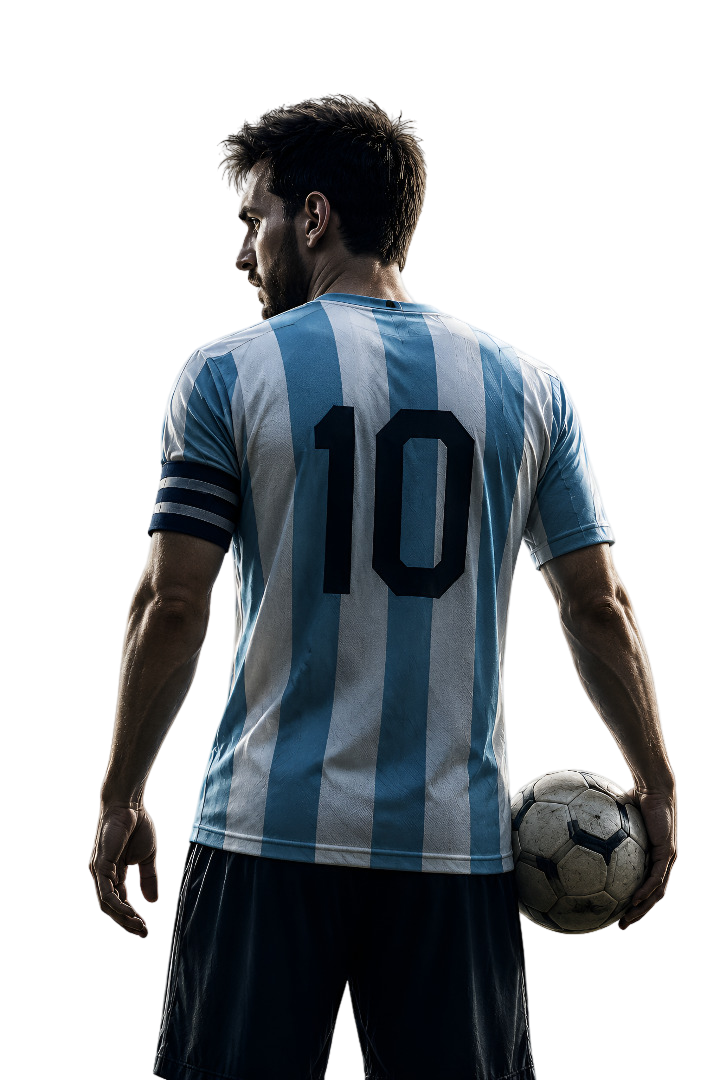
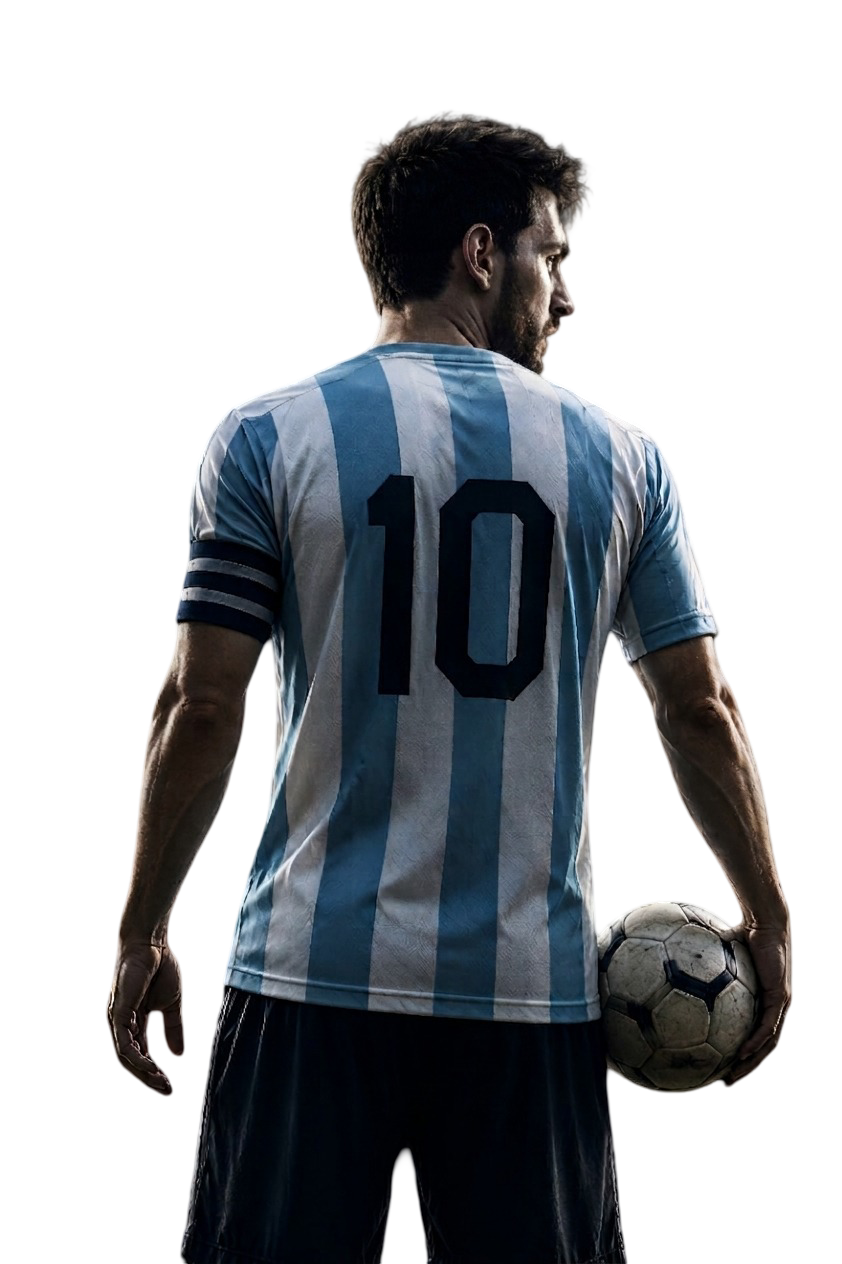
feat: add assets for new nations and update NationCard to dynamically load images per country

diff --git a/src/components/sections/nations/NationCard.tsx b/src/components/sections/nations/NationCard.tsx
@@ -28,8 +28,16 @@ const NATION_COLORS: Record<string, string> = {
   "01": "rgba(0, 191, 255, 0.4)", // Argentina
   "02": "rgba(251, 191, 36, 0.4)", // Brazil
   "03": "rgba(59, 130, 246, 0.4)", // France
-  "04": "rgba(248, 250, 252, 0.2)", // England
+  "04": "rgba(248, 250, 252, 0.2)", // Germany
   "05": "rgba(239, 68, 68, 0.4)",  // Portugal
+}
+
+const NATION_FOLDERS: Record<string, string> = {
+  "01": "argentina",
+  "02": "brazil",
+  "03": "france",
+  "04": "germany",
+  "05": "portugal",
 }
 
 export default function NationCard({ nation, isActive, index }: NationCardProps) {
@@ -75,6 +83,7 @@ export default function NationCard({ nation, isActive, index }: NationCardProps)
   }, [isActive])
 
   const accentColor = NATION_COLORS[nation.id] || "rgba(233, 193, 118, 0.4)"
+  const folder = NATION_FOLDERS[nation.id] || "argentina"
 
   return (
     <div
@@ -84,7 +93,7 @@ export default function NationCard({ nation, isActive, index }: NationCardProps)
       {/* LAYER 1: DEEP BACKGROUND (City/Stadium) */}
       <div ref={bgRef} className="absolute inset-0 z-0">
         <Image
-          src="/images/nations/argentina/bg.png"
+          src={`/images/nations/${folder}/bg.png`}
           alt={`${nation.name} background`}
           fill
           className="object-cover"
@@ -105,7 +114,7 @@ export default function NationCard({ nation, isActive, index }: NationCardProps)
         className="absolute inset-x-0 top-0 h-full w-[120%] -left-[10%] z-1 opacity-40 pointer-events-none mix-blend-overlay"
       >
         <Image
-          src="/images/nations/argentina/flag.png"
+          src={`/images/nations/${folder}/flag.png`}
           alt={`${nation.name} flag`}
           fill
           className="object-cover scale-110"
@@ -119,7 +128,7 @@ export default function NationCard({ nation, isActive, index }: NationCardProps)
       >
         <div className="relative w-full h-full flex items-end justify-end translate-x-[10%] md:translate-x-0">
           <Image
-            src="/images/nations/argentina/player.png"
+            src={`/images/nations/${folder}/player.png`}
             alt={nation.player}
             width={1200}
             height={1600}
